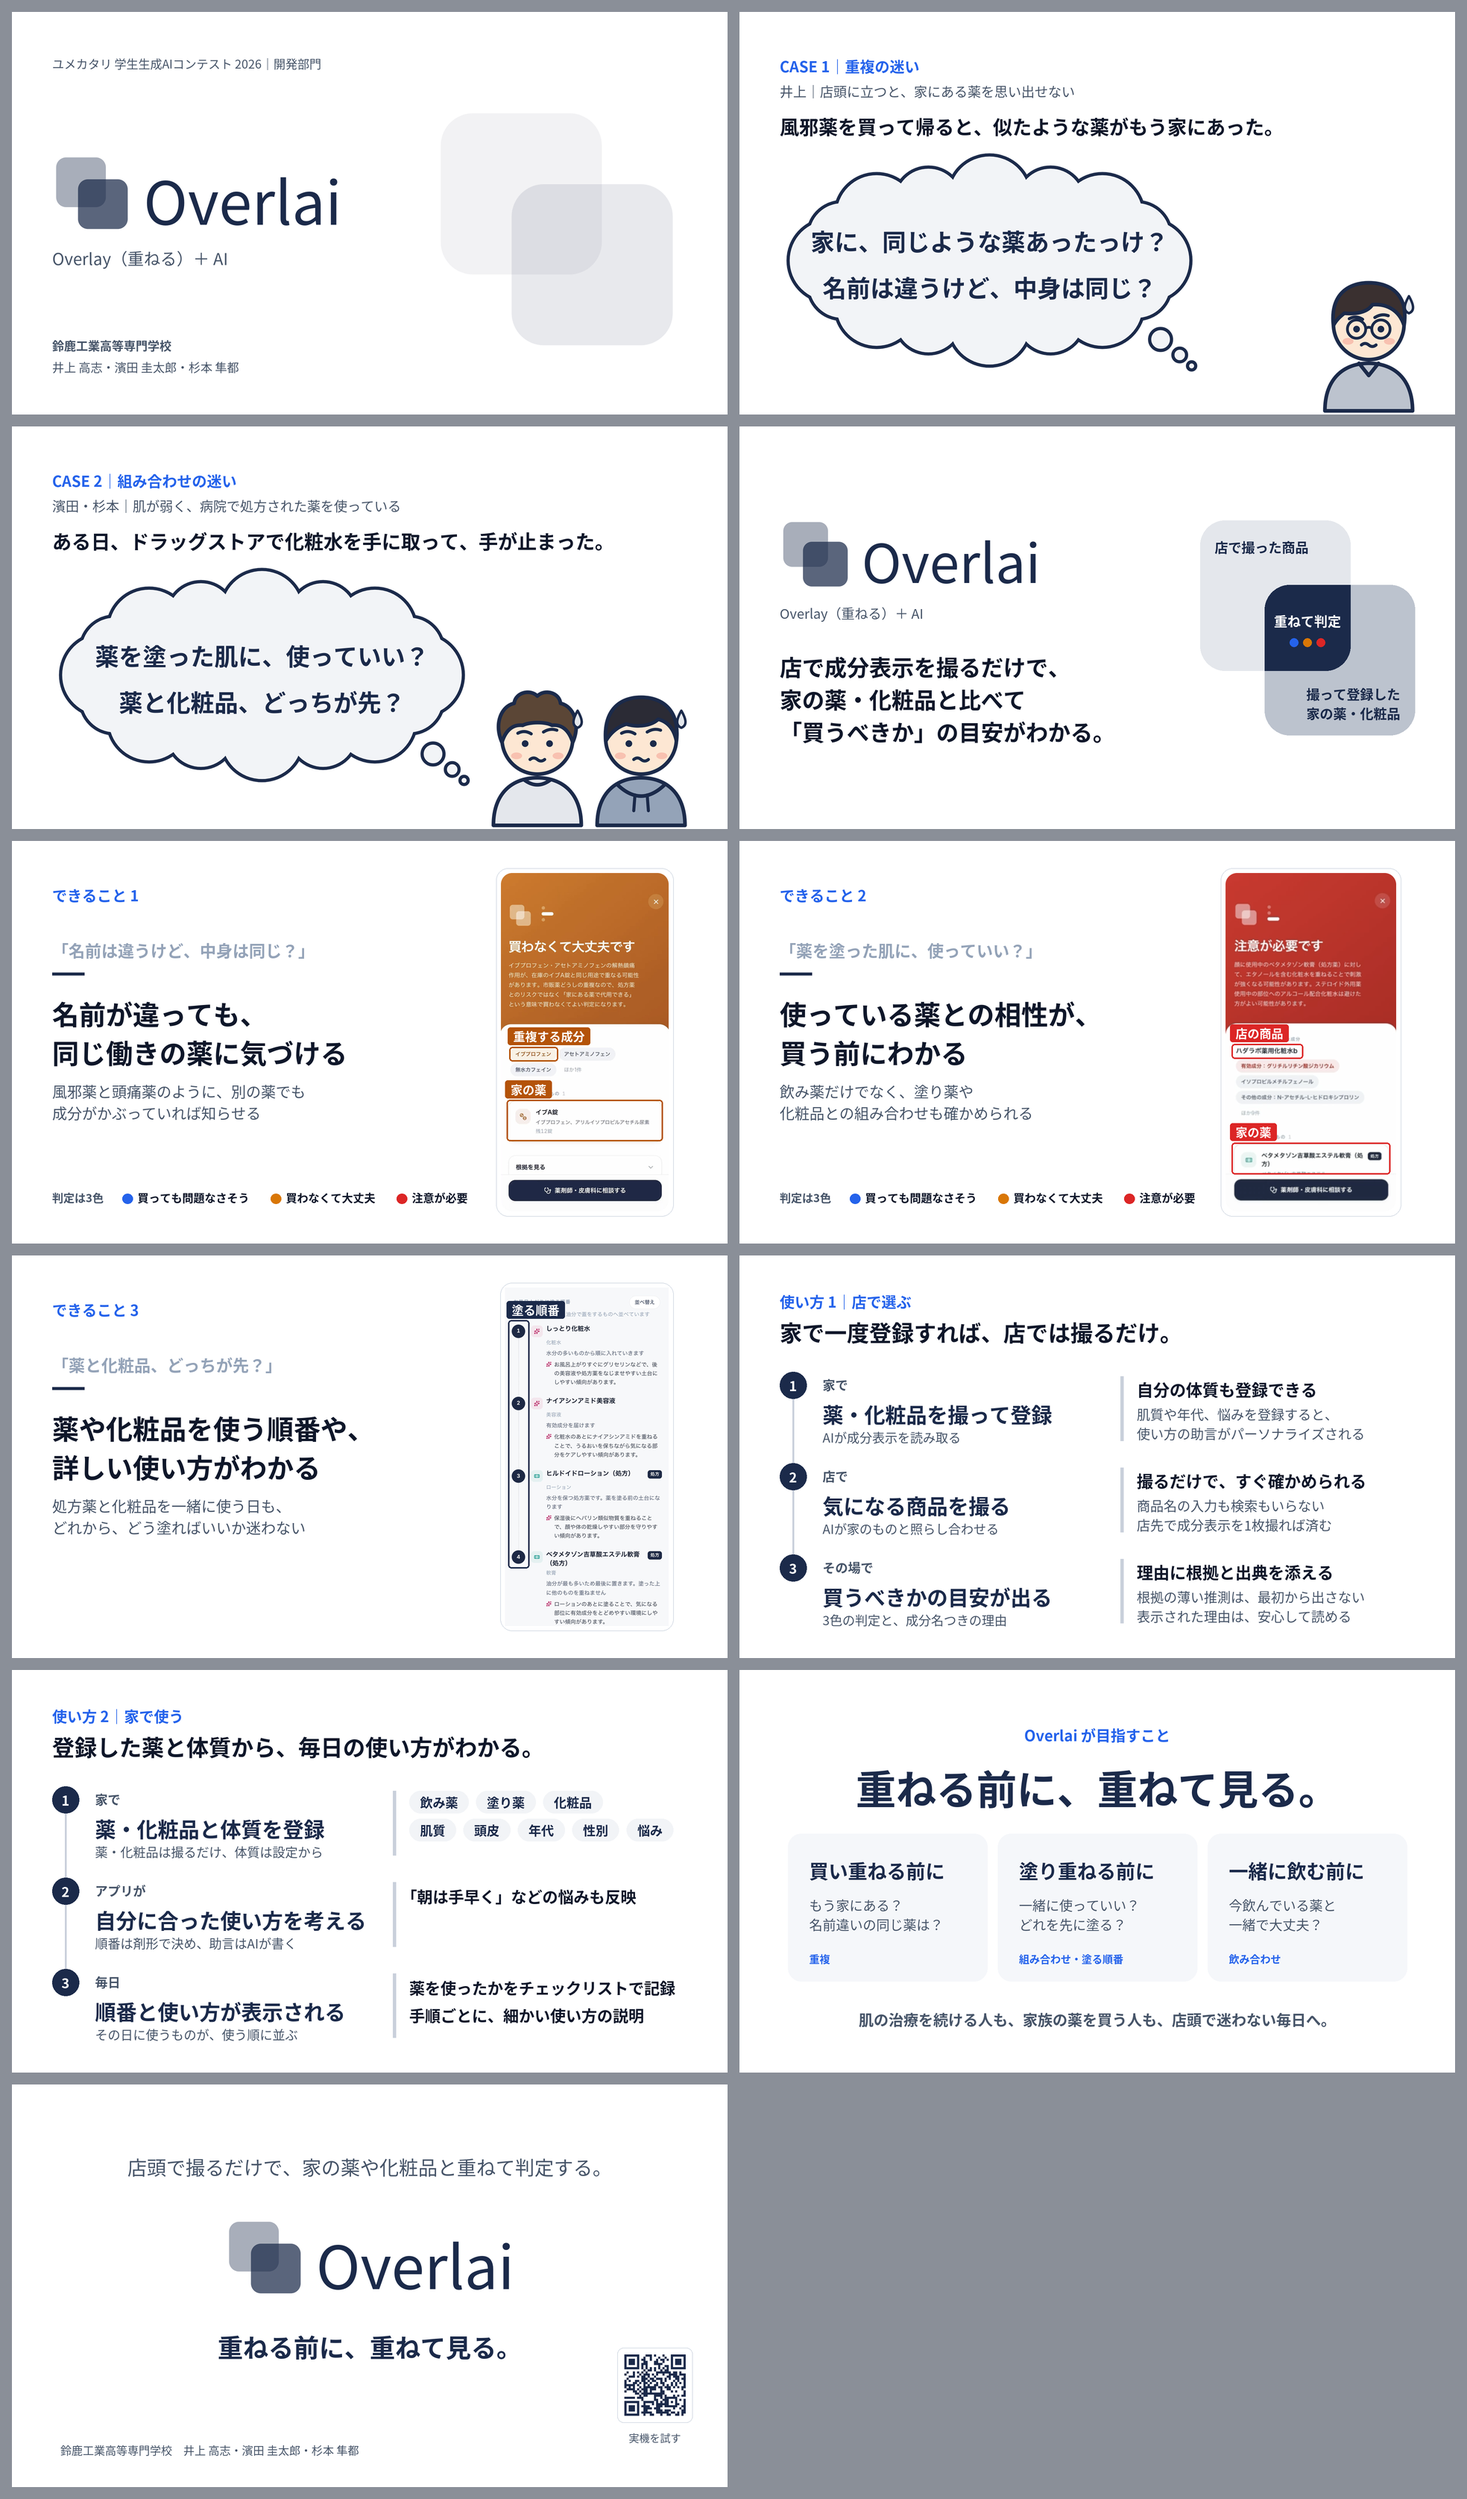
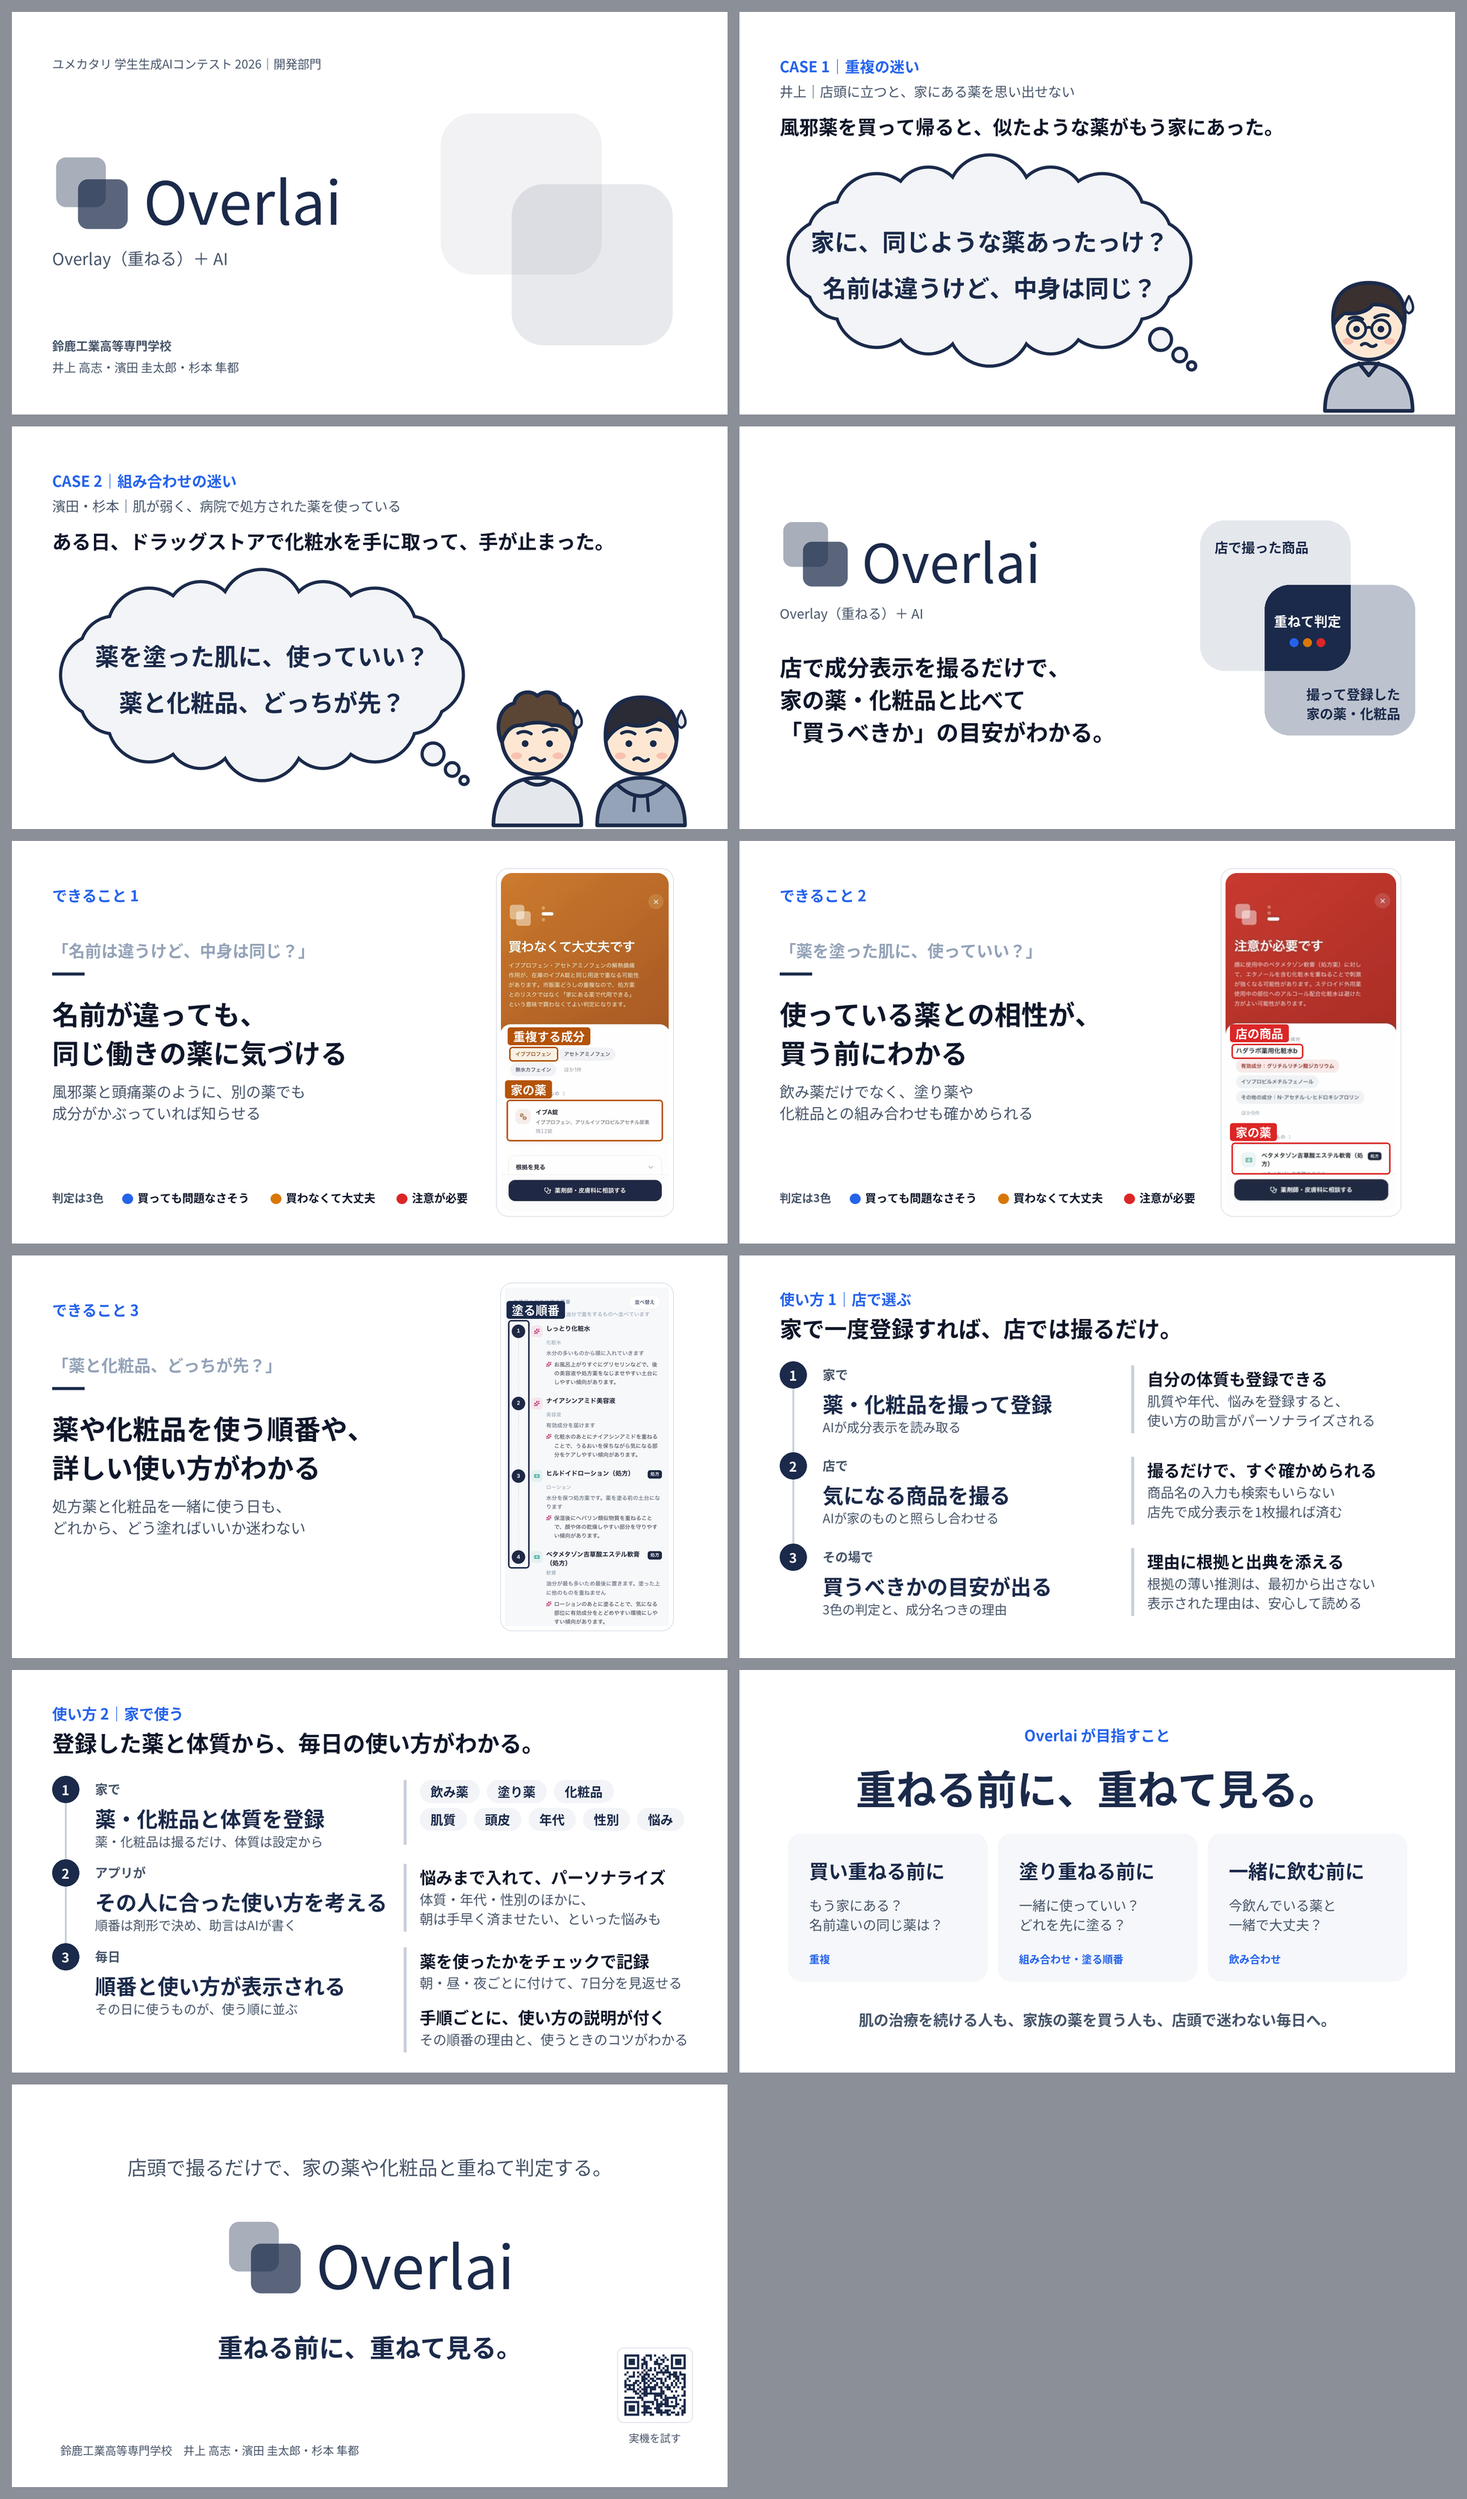
ピッチの「使い方 2」に補足説明を入れ、「自分に合った」を「その人に合った」にする
- ②：悩みまで入れて、パーソナライズ（体質・年代・性別のほかに、朝は手早く済ませたい、といった悩みも）
- ③：薬を使ったかをチェックで記録（朝・昼・夜ごと、7日分）／手順ごとに、使い方の説明が付く
- 段の高さを右の列に合わせて伸ばし、2枚の使い方で見出しと右の列の位置をそろえる

Changed region(s): [[0.031, 0.6826, 0.4649, 0.8377], [0.5269, 0.4964, 0.9299, 0.6516]]

diff --git a/docs/ピッチ/build.py b/docs/ピッチ/build.py
@@ -246,29 +246,24 @@ for i, (doubt, h3, sub, shot, sig, rings, note) in enumerate(CASES):
 
 # 7〜8. 使い方（店で選ぶ・家で使うの2枚）
 # やることが主役。右の列は、そのステップにぶら下がるもの（一回り小さくし、縦線を付ける）
-ROW0, PITCH, DOT = 2.15, 1.7, 0.5
-BX = 7.1  # 右の列
+DOT = 0.5
 
 
-def benefit(head, body):
-    """うれしいこと（見出しと2行の説明）"""
+def benefits(*pairs):
+    """うれしいこと（見出しと説明）。2つ並べるときは説明を1行にする。返り値は (要素, 高さ)"""
     def draw(x, y, w):
-        return [text(x, y + 0.06, w, line_h(22), head, 22, INK, bold=True),
-                text(x, y + 0.58, w, line_h(18, 1.0, 2), body, 18, MUTED)]
-    return draw
-
-
-def points(*lines):
-    """うれしいこと（1行ずつ。説明は付けない）"""
-    def draw(x, y, w):
-        # 「で始まる行は、括弧の左の空きぶんだけ左へ出して頭をそろえる
-        return [text(x - (0.14 if ln.startswith('「') else 0), y + 0.1 + i * 0.52, w, line_h(21), ln, 21, INK, bold=True)
-                for i, ln in enumerate(lines)]
+        out, yy = [], y
+        for head, body in pairs:
+            n = body.count('\n') + 1
+            out += [text(x, yy + 0.06, w, line_h(22), head, 22, INK, bold=True),
+                    text(x, yy + 0.53, w, line_h(18, 1.0, n), body, 18, MUTED)]
+            yy += 0.53 + line_h(18, 1.0, n) + 0.16
+        return out, yy - 0.16 - y
     return draw
 
 
 def chips(*rows):
-    """登録するものを札で並べる（うれしいことの代わりに、何を入れるかを見せる）"""
+    """登録するものを札で並べる（①には、うれしいことの代わりに何を入れるかを見せる）"""
     def draw(x, y, w):
         out = []
         for r, row in enumerate(rows):
@@ -277,46 +272,53 @@ def chips(*rows):
                 cw = width_of(c, 17, True) + 0.4
                 out.append(rect(cx, y + 0.1 + r * 0.52, cw, 0.42, MIST, radius=0.21, label=c, size=17, color=NAVY))
                 cx += cw + 0.14
-        return out
+        return out, 0.1 + len(rows) * 0.52
     return draw
 
 
-def howto(tag, title, steps, notes):
-    items = [label(tag, y=0.6), text(X0, 1.05, 11, line_h(30), title, 30, INK, bold=True)]
-    items.append(rect(X0 + DOT / 2 - 0.0125, ROW0 + 0.02 + DOT / 2, 0.025, PITCH * 2, PALE, shape='rect'))  # 番号をつなぐ線
+def howto(tag, title, steps, notes, top=1.95, min_pitch=1.7, gap=0.3, bx=7.3):
+    """左に番号つきの3段（やること）、右の列（bx から）にぶら下がるもの。段の高さは右の列に合わせて伸びる"""
+    items = [label(tag, y=0.55), text(X0, 0.97, 11, line_h(30), title, 30, INK, bold=True)]
     tx = X0 + DOT + 0.3
+    y, centers = top, []
     for i, (when, act, sub, right) in enumerate(steps):
-        y = ROW0 + i * PITCH
+        ritems, rh = right(bx + 0.3, y, X1 - bx - 0.3)
         items += [
             rect(X0, y + 0.02, DOT, DOT, NAVY, radius=DOT / 2, label=str(i + 1), size=18, color=WHITE),
             text(tx, y + 0.04, 3, line_h(17), when, 17, MUTED, bold=True),
-            text(tx, y + 0.45, BX - tx - 0.2, line_h(28), act, 28, NAVY, bold=True),
-            text(tx, y + 1.02, BX - tx - 0.2, line_h(17), sub, 17, MUTED),
-            rect(BX, y + 0.1, 0.05, 1.2, PALE, shape='rect'),
-            *right(BX + 0.3, y, X1 - BX - 0.3),
+            text(tx, y + 0.45, bx - tx - 0.2, line_h(28), act, 28, NAVY, bold=True),
+            text(tx, y + 1.02, bx - tx - 0.2, line_h(17), sub, 17, MUTED),
+            rect(bx, y + 0.1, 0.05, max(1.2, rh), PALE, shape='rect'),
+            *ritems,
         ]
+        centers.append(y + 0.02 + DOT / 2)
+        y += max(min_pitch, max(1.36, rh) + gap)
+    # 番号をつなぐ線（番号の丸より先に描く）
+    items.insert(2, rect(X0 + DOT / 2 - 0.0125, centers[0], 0.025, centers[-1] - centers[0], PALE, shape='rect'))
     SLIDES.append(dict(notes=notes, items=items))
 
 
 howto('使い方 1｜店で選ぶ', '家で一度登録すれば、店では撮るだけ。', [
     ('家で', '薬・化粧品を撮って登録', 'AIが成分表示を読み取る',
-     benefit('自分の体質も登録できる', '肌質や年代、悩みを登録すると、\n使い方の助言がパーソナライズされる')),
+     benefits(('自分の体質も登録できる', '肌質や年代、悩みを登録すると、\n使い方の助言がパーソナライズされる'))),
     ('店で', '気になる商品を撮る', 'AIが家のものと照らし合わせる',
-     benefit('撮るだけで、すぐ確かめられる', '商品名の入力も検索もいらない\n店先で成分表示を1枚撮れば済む')),
+     benefits(('撮るだけで、すぐ確かめられる', '商品名の入力も検索もいらない\n店先で成分表示を1枚撮れば済む'))),
     ('その場で', '買うべきかの目安が出る', '3色の判定と、成分名つきの理由',
-     benefit('理由に根拠と出典を添える', '根拠の薄い推測は、最初から出さない\n表示された理由は、安心して読める')),
+     benefits(('理由に根拠と出典を添える', '根拠の薄い推測は、最初から出さない\n表示された理由は、安心して読める'))),
 ], '家で一度登録すれば、店では撮るだけ。理由には出典を添えます。')
 
 # 家で使う側。順番は剤形で決まり（lib/routine.ts）、AIが書くのは助言の言葉だけ。「AIが順番を決める」と書かないこと
-# ①は、うれしいことの代わりに登録するものを札で見せる（体質は撮らずに選んで入れる）
+# ①は、うれしいことの代わりに登録するものを札で見せる（体質は撮らずに設定から入れる）
+# ③の「順番の理由」は lib/routine.ts の剤形ごとの説明、「コツ」はAIの一言、記録は服薬（朝・昼・夜、直近7日）
 howto('使い方 2｜家で使う', '登録した薬と体質から、毎日の使い方がわかる。', [
     ('家で', '薬・化粧品と体質を登録', '薬・化粧品は撮るだけ、体質は設定から',
      chips(('飲み薬', '塗り薬', '化粧品'), ('肌質', '頭皮', '年代', '性別', '悩み'))),
-    ('アプリが', '自分に合った使い方を考える', '順番は剤形で決め、助言はAIが書く',
-     points('「朝は手早く」などの悩みも反映')),
+    ('アプリが', 'その人に合った使い方を考える', '順番は剤形で決め、助言はAIが書く',
+     benefits(('悩みまで入れて、パーソナライズ', '体質・年代・性別のほかに、\n朝は手早く済ませたい、といった悩みも'))),
     ('毎日', '順番と使い方が表示される', 'その日に使うものが、使う順に並ぶ',
-     points('薬を使ったかをチェックリストで記録', '手順ごとに、細かい使い方の説明')),
-], '登録した薬と体質から、毎日の使う順番と使い方も案内します。')
+     benefits(('薬を使ったかをチェックで記録', '朝・昼・夜ごとに付けて、7日分を見返せる'),
+              ('手順ごとに、使い方の説明が付く', 'その順番の理由と、使うときのコツがわかる'))),
+], '登録した薬と体質から、毎日の使う順番と使い方も案内します。', min_pitch=1.5, gap=0.2)
 
 
 # 8. 目指すこと（作り直す前の版の1枚。店頭の判定だけでなく、買う・塗る・飲むの全部で「重ねる前に確かめる」）
